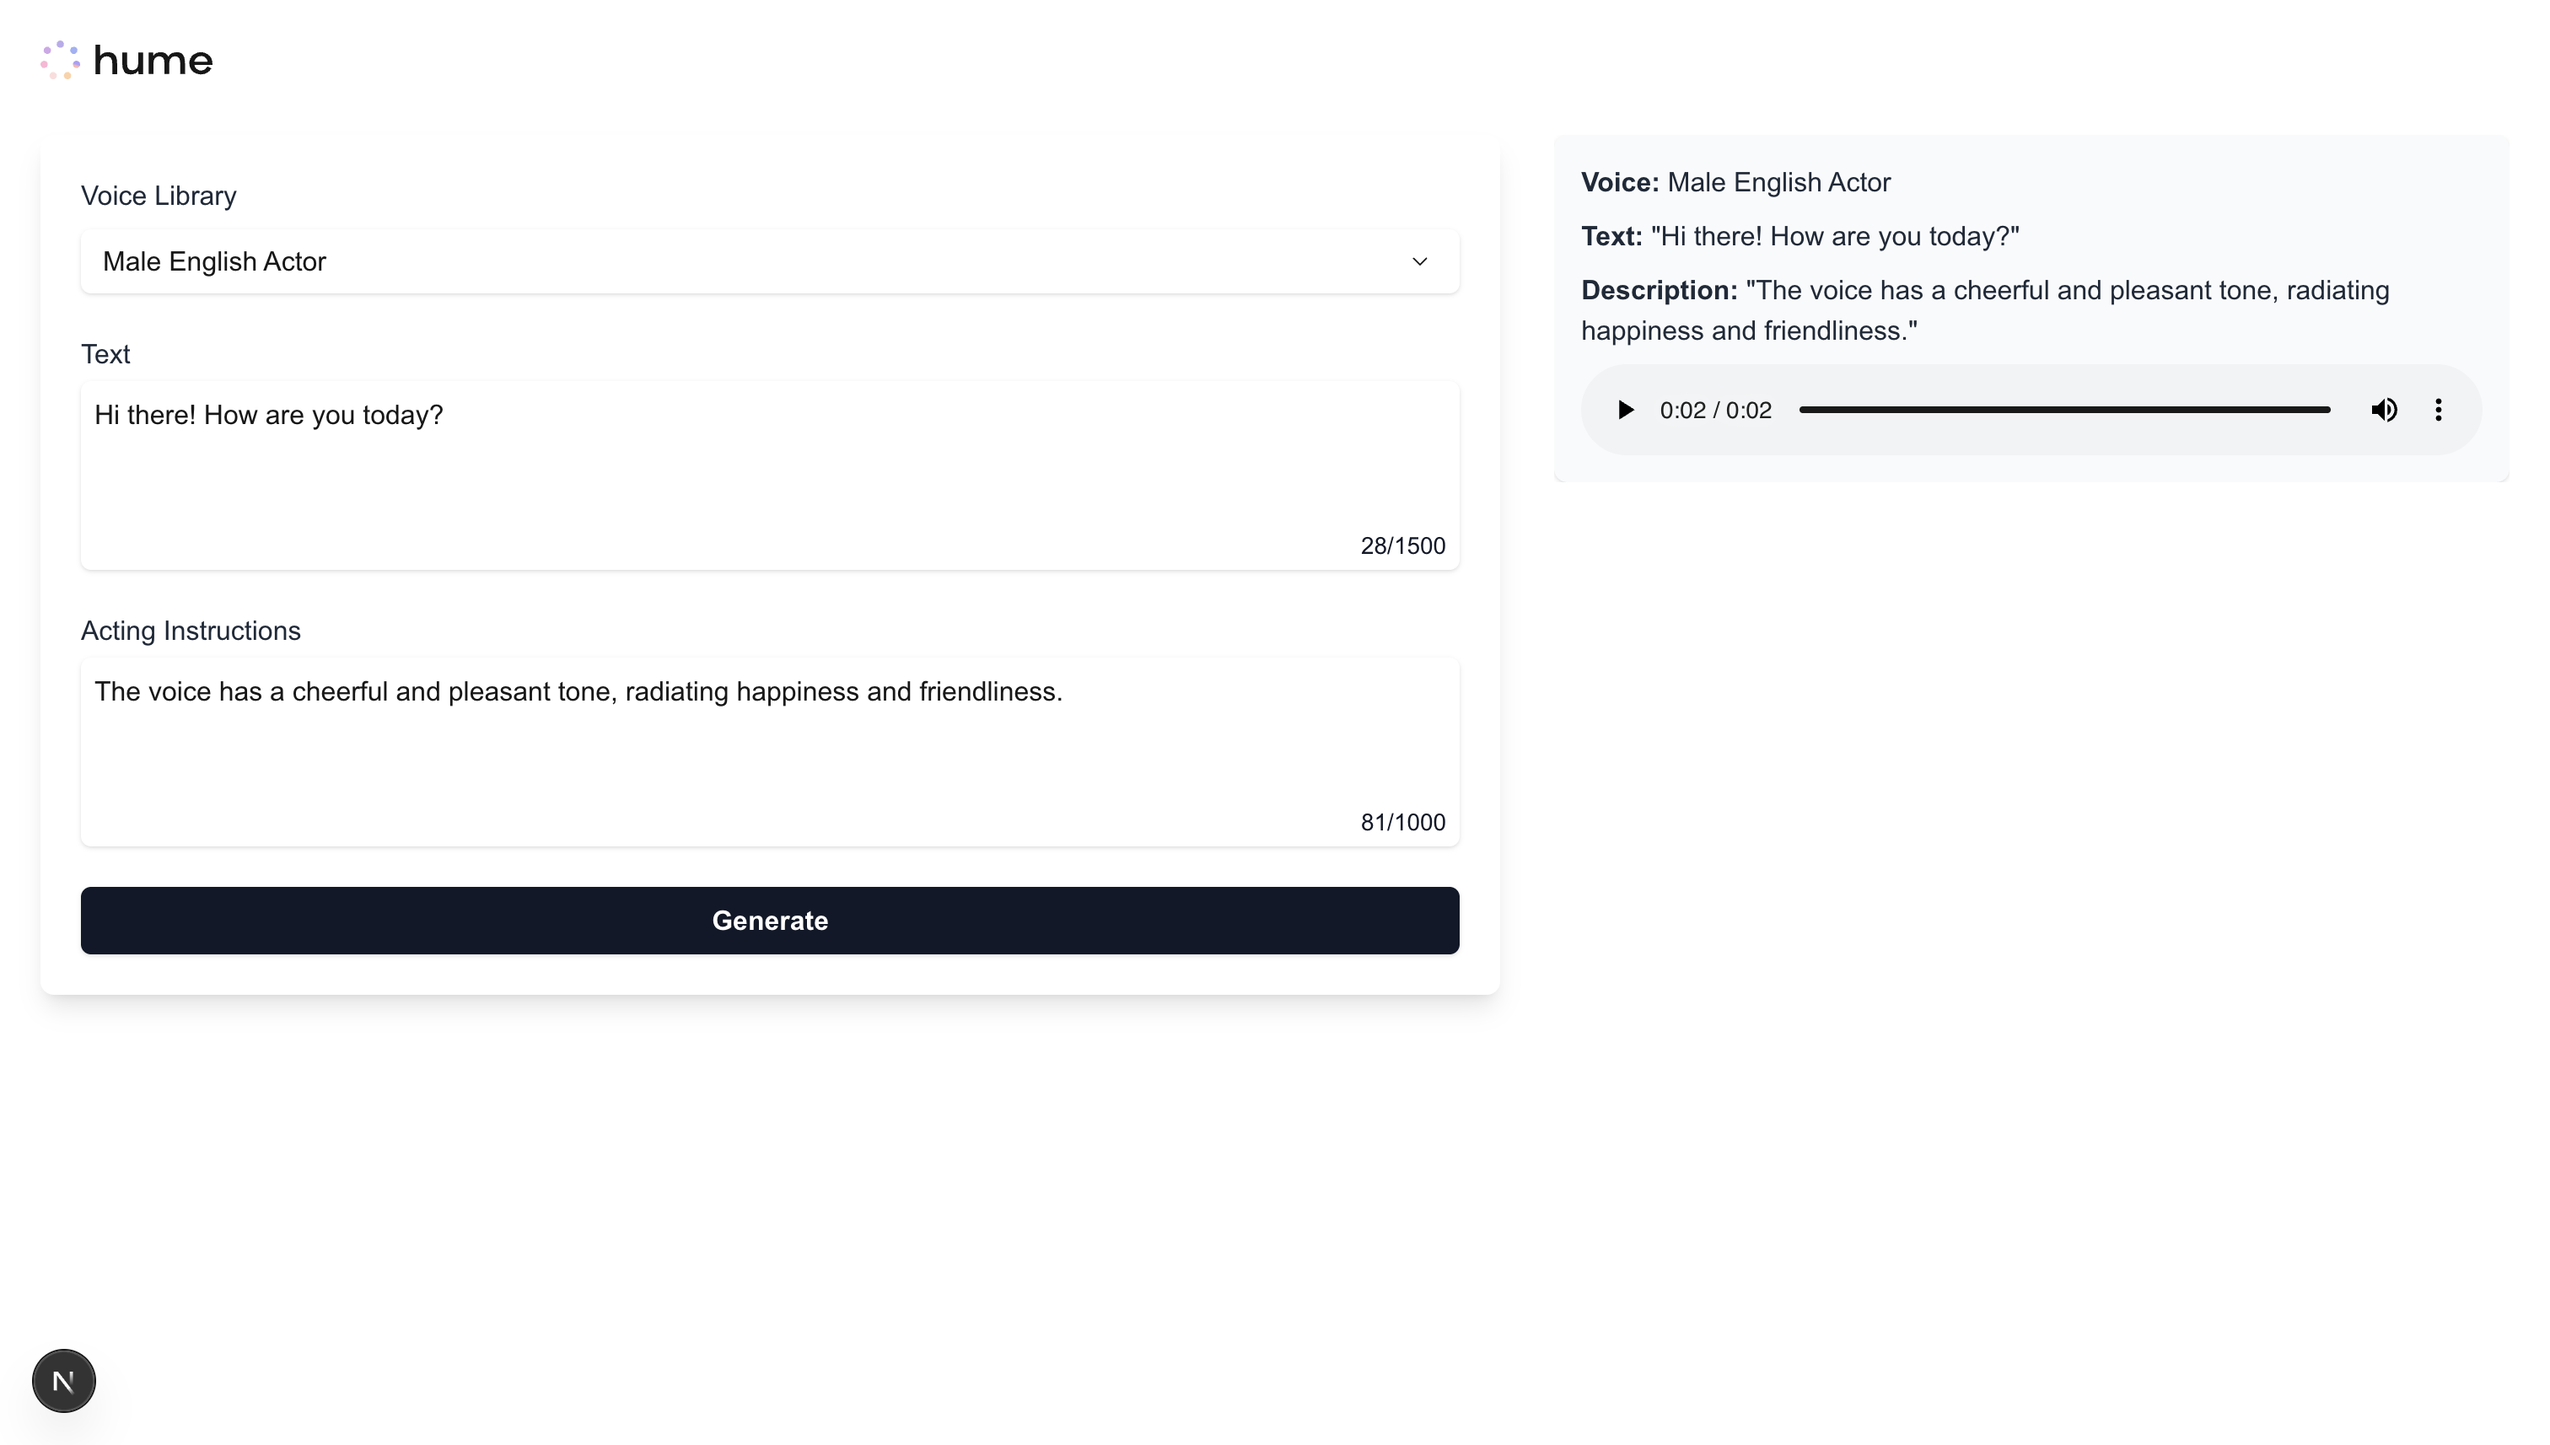
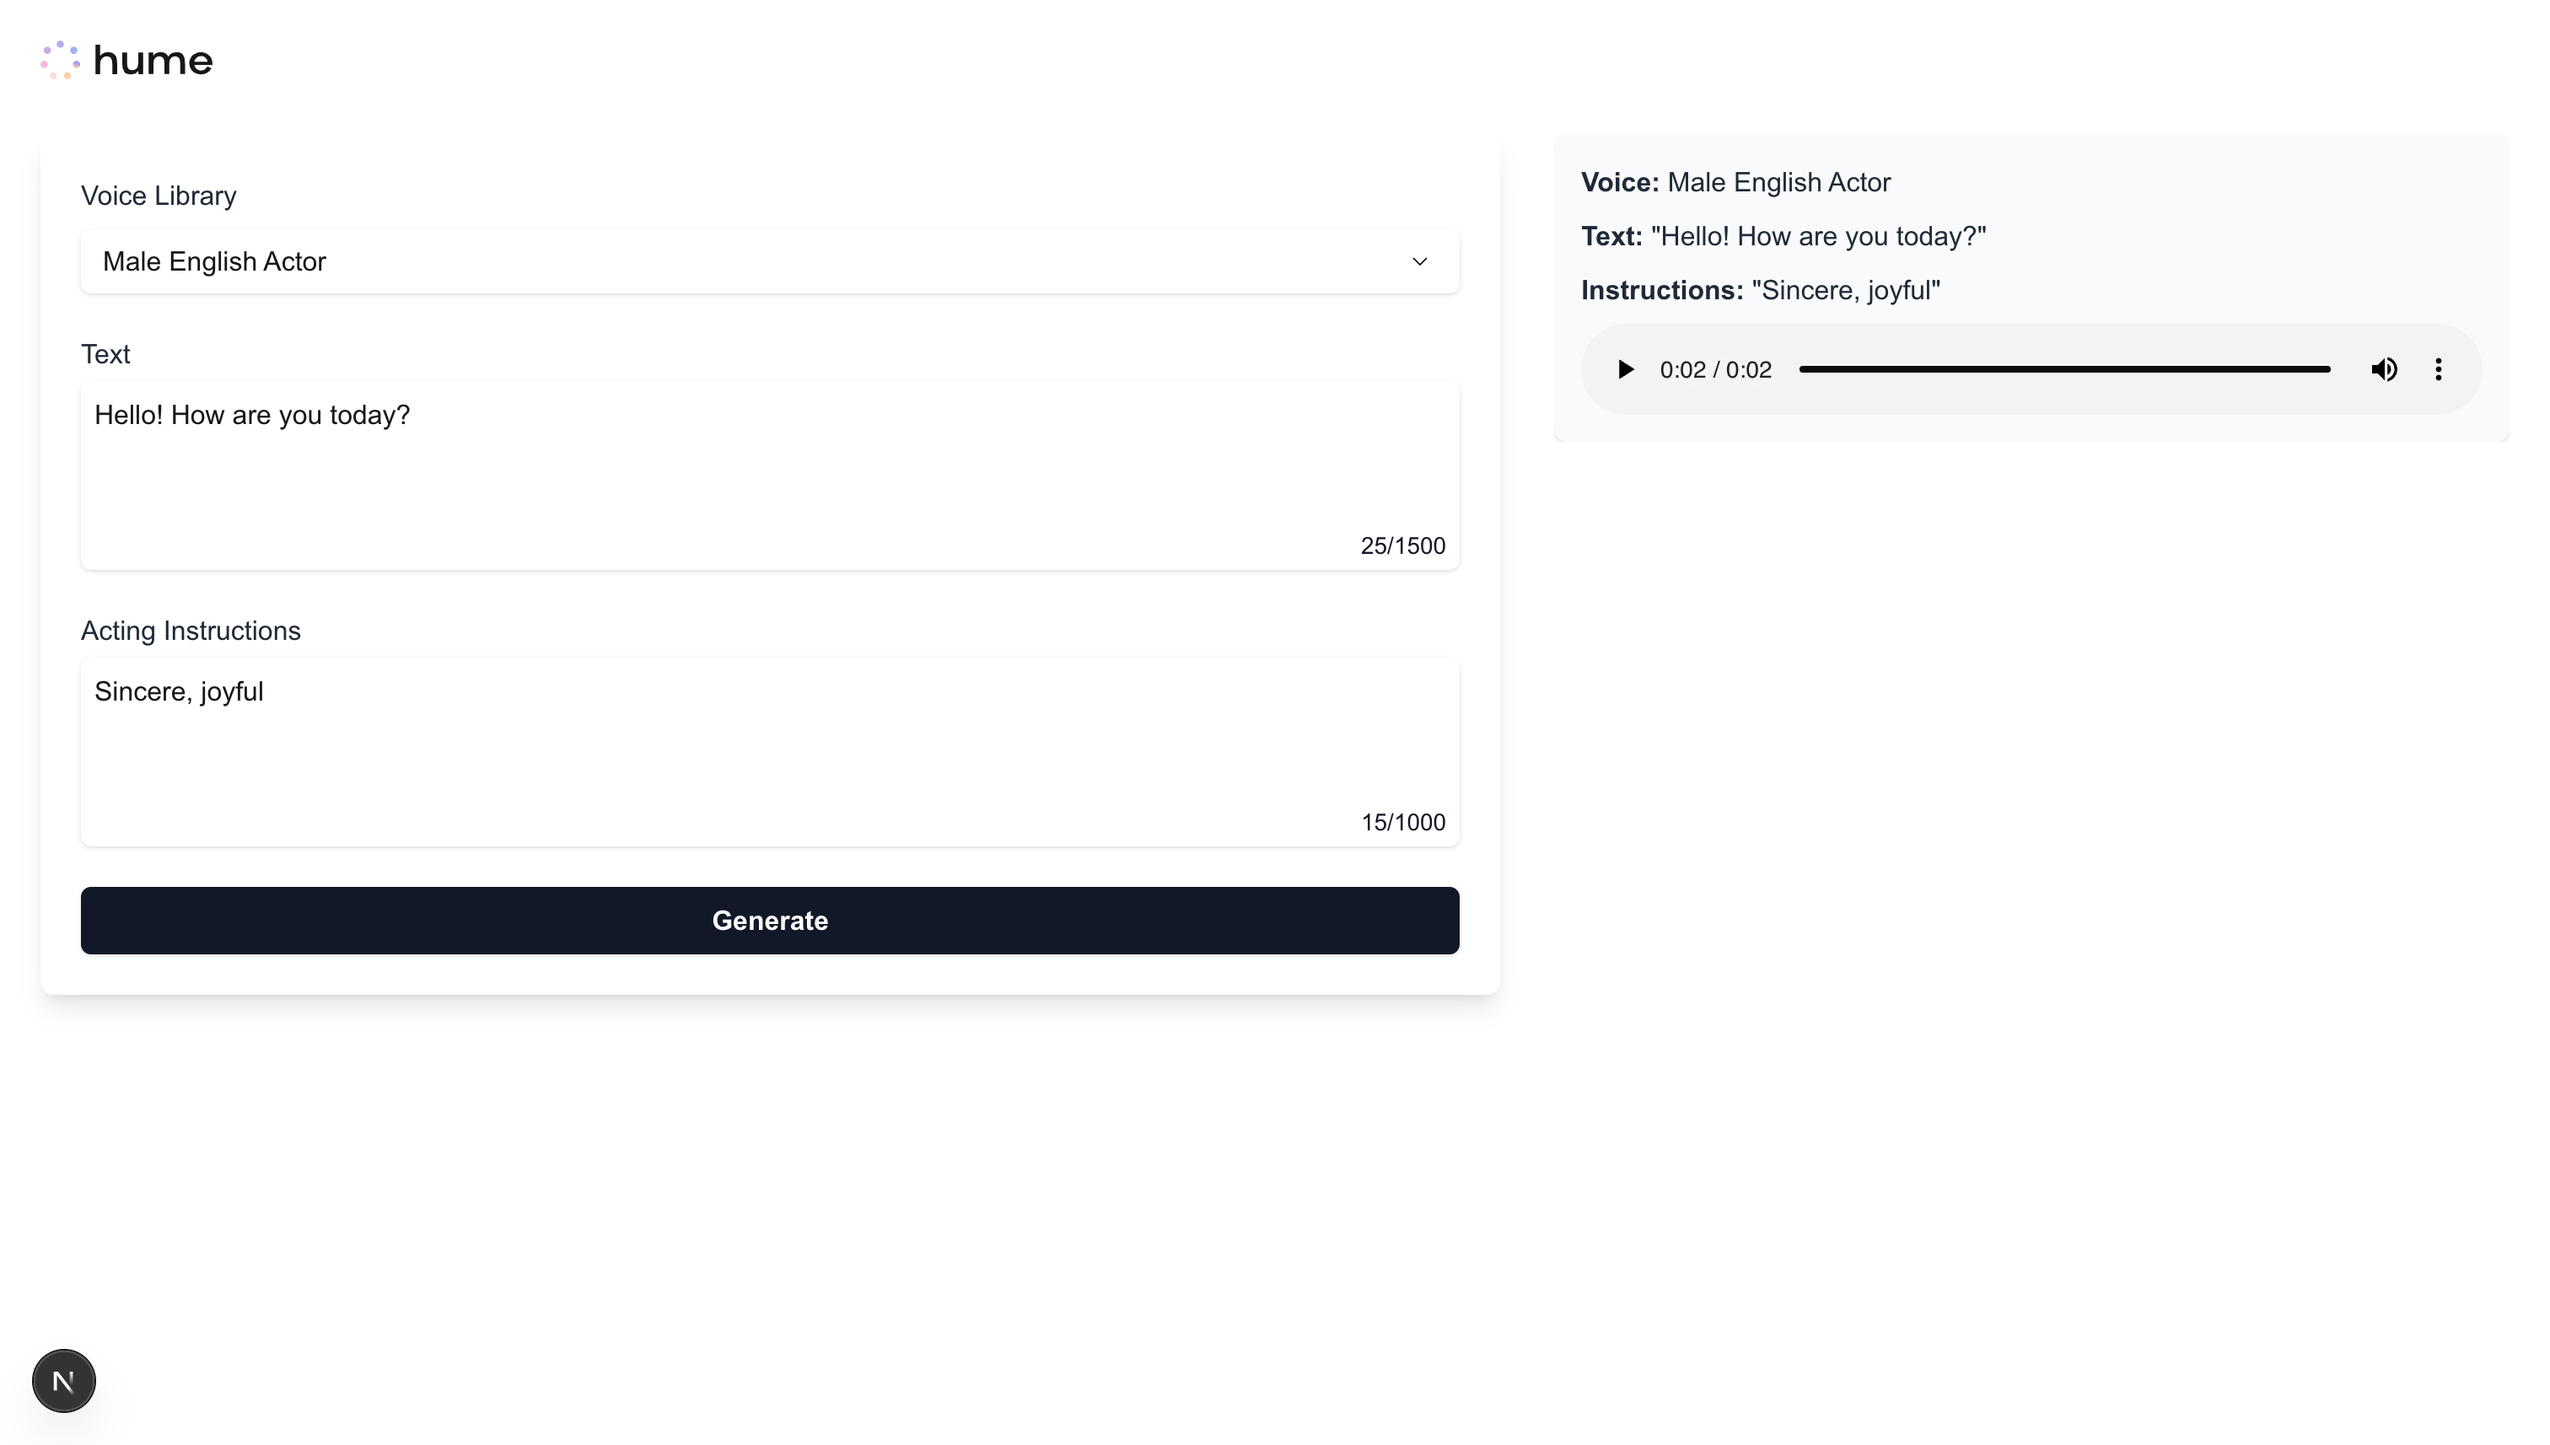
Update preview image

diff --git a/tts/tts-next-js-vercel-ai-sdk/src/app/page.tsx b/tts/tts-next-js-vercel-ai-sdk/src/app/page.tsx
@@ -39,7 +39,7 @@ export default function Page() {
                   const bytes = Uint8Array.from(atob(base64), (c) => c.charCodeAt(0));
                   const url = URL.createObjectURL(new Blob([bytes], { type: mimeType }));
 
-                  setClips((prev) => [{ voice, instructions, text, url }, ...prev]);
+                  setClips((prev) => [{ voice, text, instructions, url }, ...prev]);
                 });
               }}
               loading={isPending}

diff --git a/tts/tts-next-js-vercel-ai-sdk/src/components/TtsForm.tsx b/tts/tts-next-js-vercel-ai-sdk/src/components/TtsForm.tsx
@@ -47,8 +47,8 @@ export function TtsForm({
         rows={4}
       />
       <TextAreaField
-        id="description"
-        name="description"
+        id="instructions"
+        name="instructions"
         label="Acting Instructions"
         maxLength={1000}
         placeholder="Provide acting instructions to guide performance..."
